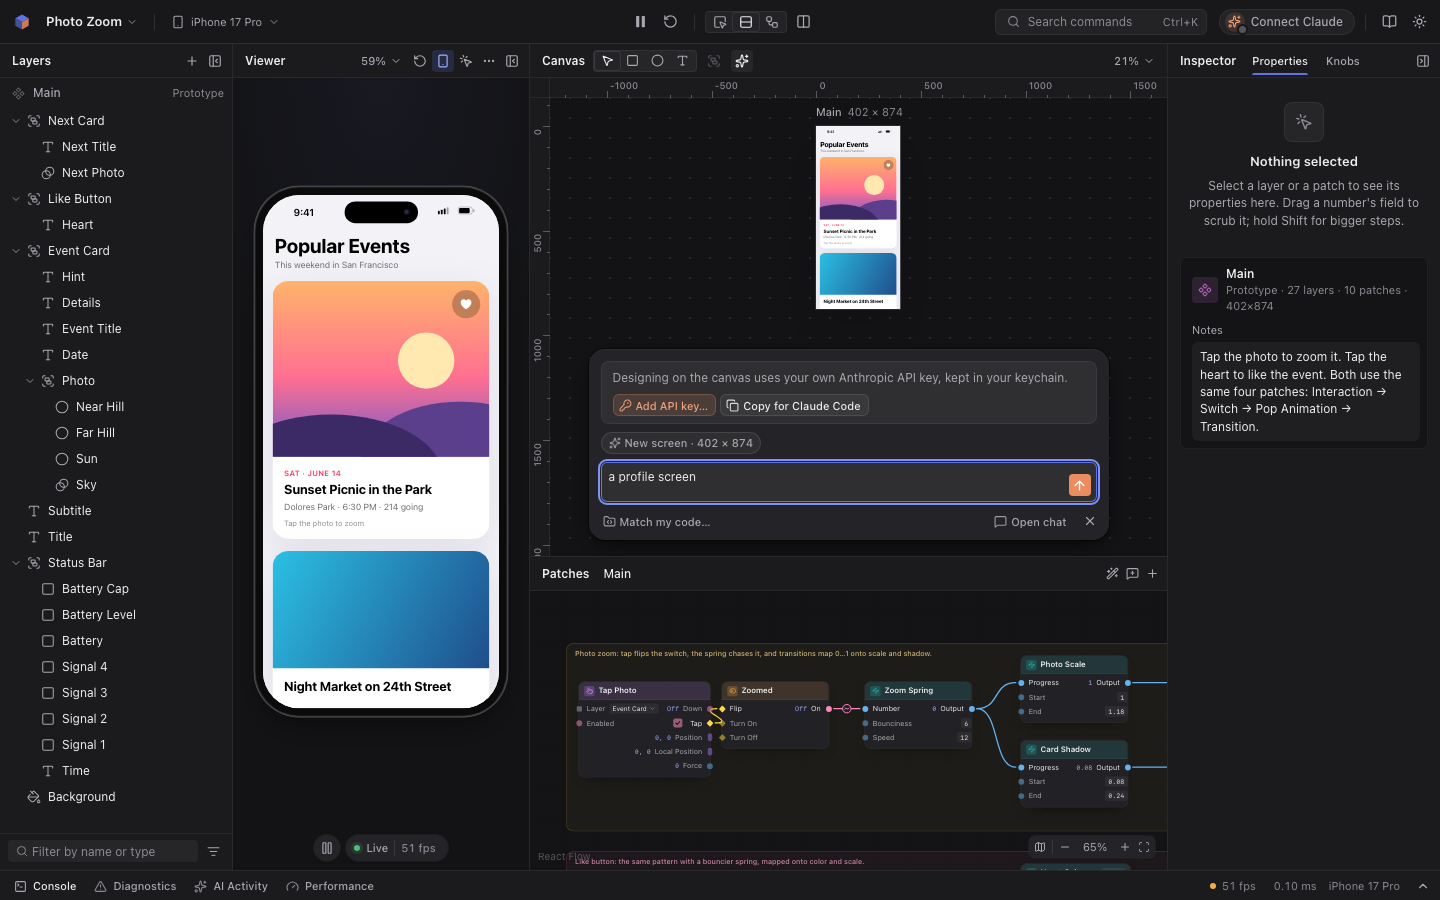
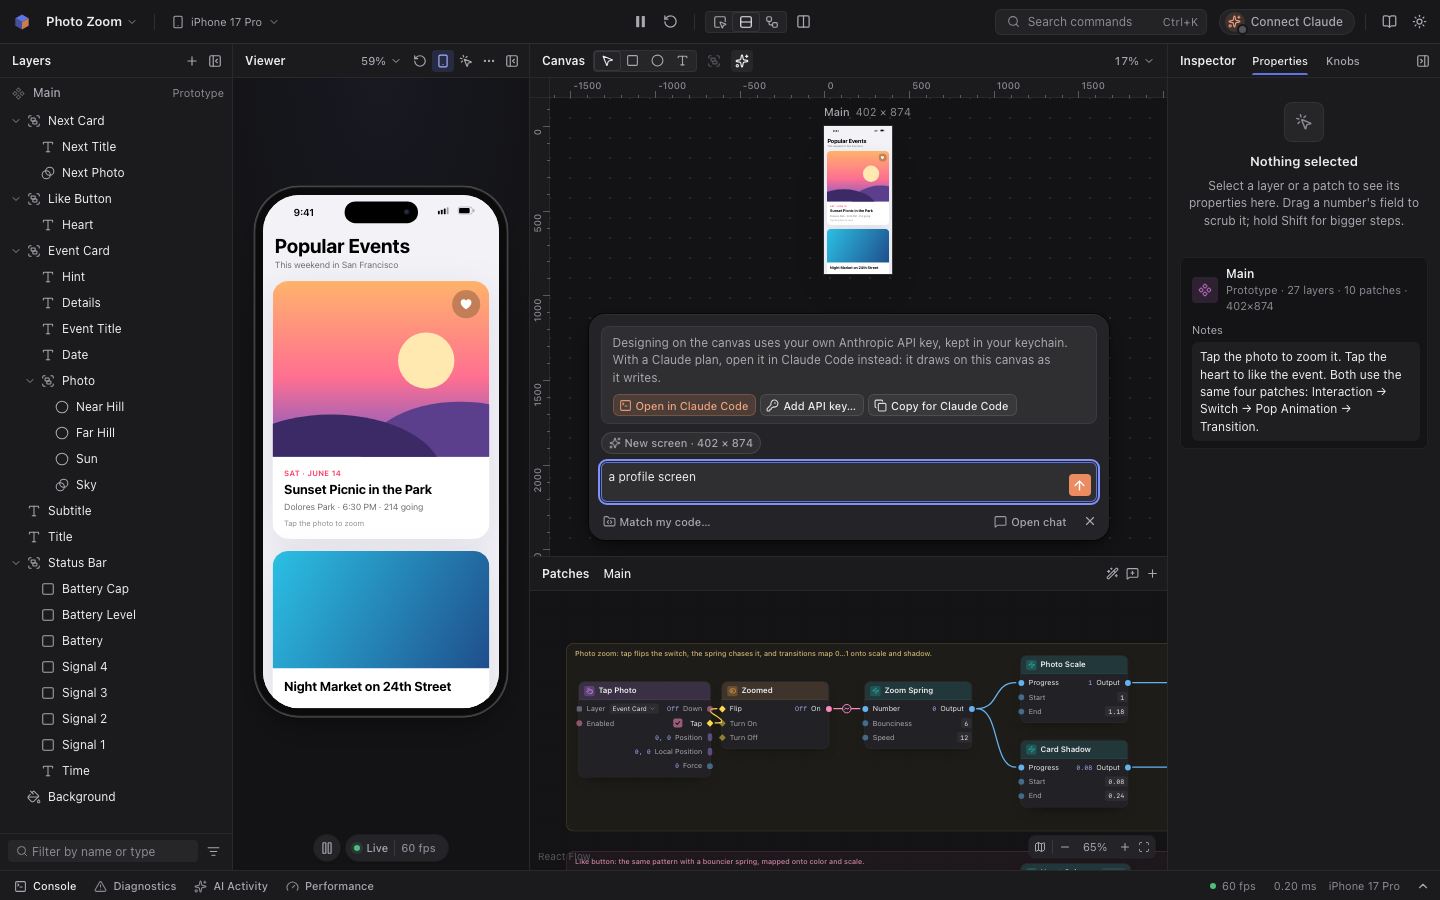
Design with Claude: integrate wave 2, and test preview_design from the MCP server to the editor's canvas
An app-host test now sends preview_design and import_design with "preview": true through the real
editor RPC handler: the draft shows on the canvas and grows, turns to adding while it's captured,
and ends as added once its layers are in. A type check holds the editor's DesignPreviewUpdate mirror
to the MCP package's. The e2e fake Assistant gains openInClaudeCode, as the desktop preload has it,
so the no-key test checks Open in Claude Code comes first and hands off the prompt that teaches
preview_design. The design-01 to 03 screenshots show the new button.

Claude-Session: https://claude.ai/code/session_012WdeSGQJKtguNSEBwTLrct

Changed region(s): [[0.4062, 0.0933, 0.7812, 0.4667], [0.625, 0.0933, 0.6562, 0.1244]]

diff --git a/apps/desktop/electron/app-host.test.ts b/apps/desktop/electron/app-host.test.ts
@@ -14,7 +14,7 @@ import type { SceneFrame, SceneNode } from "@sonobe/engine";
 import { InMemoryTransport } from "@modelcontextprotocol/server";
 import { createHttpHandler, createSimulationManager, createSonobeMcpServer, HostError, isHostError, TOOL_NAMES, type DesignPreviewUpdate, type NodeMcpHandler } from "@sonobe/mcp";
 import { createPatchRegistry } from "@sonobe/patches";
-import { afterEach, describe, expect, it, vi } from "vitest";
+import { afterEach, describe, expect, expectTypeOf, it, vi } from "vitest";
 
 // Count full diagnostics passes in this process (behavior unchanged).
 vi.mock("@sonobe/core", async (importOriginal) => {
@@ -23,6 +23,8 @@ vi.mock("@sonobe/core", async (importOriginal) => {
 });
 import { createBrowserHost, createMemoryProjectStorage, type ProjectStorage } from "../../editor/src/host/browserHost.ts";
 import { registerRpcHandlers } from "../../editor/src/host/rpcHandlers.ts";
+import type { DesignPreviewUpdate as EditorDesignPreviewUpdate } from "../../editor/src/host/types.ts";
+import { activeDraft, designStore, initialDesignData } from "../../editor/src/panels/design/designStore.ts";
 import { createManualScheduler } from "../../editor/src/runtime/scheduler.ts";
 import { createDemoDocument } from "../../editor/src/state/demoDocument.ts";
 import { createEditorSession, type EditorSession } from "../../editor/src/state/session.ts";
@@ -37,6 +39,16 @@ import { createRpcClient, createRpcFailure, createRpcServer, type RpcServer } fr
 
 const registry = createPatchRegistry();
 const CLAUDE = { kind: "agent" as const, name: "Claude" };
+
+/** A checkout screen as the capture window reads it (import_design's preview source renders the draft into it). */
+const CHECKOUT_CAPTURE = {
+  format: "sonobe.design-capture",
+  version: 1,
+  source: { kind: "html", title: "Checkout" },
+  viewport: { width: 402, height: 874 },
+  root: { kind: "frame", name: "Page", box: [0, 0, 402, 874], fill: "#FFFFFFFF", children: [{ kind: "frame", name: "Pay Button", nameRank: 5, box: [16, 780, 370, 52], fill: "#111118FF", radii: [14, 14, 14, 14], children: [] }] },
+  images: {},
+};
 
 interface TestWindow {
   session: EditorSession;
@@ -598,6 +610,44 @@ describe("app host presence, selection and screenshots", () => {
     const oldHost = appHost([old]);
     expect(await rejection(oldHost.showDesignPreview!({ ...update, docId: "photo_zoom" }))).toMatchObject({ code: "design_preview_unavailable", hint: expect.stringContaining('"preview": true') });
     await expect(oldHost.showDesignPreview!({ ...update, docId: "photo_zoom", status: "cleared", html: null })).resolves.toBeUndefined();
+  });
+
+  it("puts preview_design's draft on the editor's canvas, and import_design with preview adds it as layers", async () => {
+    // The editor's design.preview params mirror the MCP host's update field for field.
+    expectTypeOf<EditorDesignPreviewUpdate>().toEqualTypeOf<DesignPreviewUpdate>();
+    designStore.setState(initialDesignData());
+    cleanups.push(() => designStore.setState(initialDesignData()));
+    const w = editorWindow(1);
+    const captured: { html: string | undefined; status: string | undefined }[] = [];
+    const host = appHost([w], {
+      captureDesign: async (request) => {
+        // import_design says it's adding the draft while it renders it.
+        captured.push({ html: request.html, status: activeDraft(designStore.getState(), Date.now())?.status });
+        return { capture: CHECKOUT_CAPTURE as never, images: new Map() };
+      },
+    });
+    const server = createSonobeMcpServer(host, { version: "0.1.0-test" });
+    const [clientSide, serverSide] = InMemoryTransport.createLinkedPair();
+    await server.connect(serverSide);
+    const client = new Client({ name: "claude-code", version: "2.1.278" });
+    await client.connect(clientSide as never);
+    cleanups.push(() => client.close());
+    const draft = () => activeDraft(designStore.getState(), Date.now());
+
+    const head = '<!doctype html><html><head><style>body{margin:0}</style></head><body><header data-name="Header">Checkout</header>';
+    await client.callTool({ name: "preview_design", arguments: { name: "Checkout", html: head } });
+    expect(draft()).toMatchObject({ source: "mcp", key: "mcp:Claude", status: "writing", html: head, fields: { name: "Checkout" }, mcp: { author: CLAUDE, revision: 1 } });
+    const pay = '<div data-name="Pay Button">Pay</div></body></html>';
+    await client.callTool({ name: "preview_design", arguments: { append: pay } });
+    expect(draft()).toMatchObject({ status: "writing", html: head + pay, mcp: { revision: 2 } });
+
+    const result = await client.callTool({ name: "import_design", arguments: { preview: true } });
+    expect(result.isError).not.toBe(true);
+    expect(captured).toEqual([{ html: head + pay, status: "adding" }]);
+    // The import went in before the draft was cleared, so it ends as added and fades.
+    expect(designStore.getState().drafts.at(-1)).toMatchObject({ key: "mcp:Claude", status: "added", mcp: { revision: 4 } });
+    const root = w.session.document.getState().doc.project.root;
+    expect(w.session.document.getState().doc.components[root]!.layers.map((l) => l.name)).toContain("Checkout");
   });
 
   it("restarts the live prototype (restart_viewer) and says what the players show", async () => {

diff --git a/e2e/design-with-claude.spec.ts b/e2e/design-with-claude.spec.ts
@@ -9,7 +9,7 @@
 import { expect, test, type Locator, type Page } from "@playwright/test";
 import { readFileSync } from "node:fs";
 import { fileURLToPath } from "node:url";
-import { fakeAssistantSent, installFakeAssistant, releaseFakeGate } from "./fakeAssistant.ts";
+import { fakeAssistantSent, fakeHandoffs, installFakeAssistant, releaseFakeGate } from "./fakeAssistant.ts";
 import { collectConsoleProblems, hook, openEditor, screenshot } from "./helpers.ts";
 
 const profileHtml = readFileSync(fileURLToPath(new URL("../packages/import/fixtures/profile.html", import.meta.url)), "utf8");
@@ -221,10 +221,20 @@ test.describe("Design with Claude", () => {
     await designField(page).press("Enter");
     await expect(page.getByText("Designing on the canvas uses your own Anthropic API key, kept in your keychain.")).toBeVisible();
     await expect(designField(page)).toHaveValue("a profile screen");
-    await expect(page.getByRole("button", { name: "Add API key…" })).toBeVisible();
-    await expect(page.getByRole("button", { name: "Copy for Claude Code" })).toBeVisible();
+    // With a Claude plan instead of a key, Open in Claude Code comes first.
+    const notice = page.locator(".sb-design-box__notice");
+    await expect(notice).toContainText("With a Claude plan, open it in Claude Code instead: it draws on this canvas as it writes.");
+    await expect(notice.getByRole("button")).toHaveText(["Open in Claude Code", "Add API key…", "Copy for Claude Code"]);
     await expect(preview(page)).toHaveCount(0);
     await screenshot(page, "design-03-no-key");
+
+    // It hands the request to the person's own Claude Code, with the prompt that teaches the live preview.
+    await notice.getByRole("button", { name: "Open in Claude Code" }).click();
+    await expect(page.locator(".sb-toast", { hasText: "Opened Claude Code" })).toContainText("In Terminal, in “placemark”. It designs on this canvas as it writes.");
+    const handoffs = await fakeHandoffs(page);
+    expect(handoffs).toHaveLength(1);
+    expect(handoffs[0]).toContain("a profile screen");
+    expect(handoffs[0]).toContain('preview_design (component "main") with the page\'s head and first section as html, then append one part at a time, then import_design with "preview": true.');
     expect(problems).toEqual([]);
   });
 

diff --git a/e2e/fakeAssistant.ts b/e2e/fakeAssistant.ts
@@ -51,6 +51,8 @@ declare global {
     __sonobeFakeAssistant?: AssistantHostLike;
     /** Every request send() received, oldest first. */
     __fakeAssistantSent?: FakeSendRequest[];
+    /** Every prompt openInClaudeCode() received, oldest first. */
+    __fakeHandoffs?: string[];
     /** Resolves when __releaseFakeGate() is called; a reply waits on it at `hold`. */
     __fakeGate?: Promise<void>;
     __releaseFakeGate?: () => void;
@@ -60,6 +62,11 @@ declare global {
 /** Define window.__sonobeFakeAssistant before the app loads (per page; call before openEditor). */
 export async function installFakeAssistant(page: Page, options: FakeAssistantOptions): Promise<void> {
   await page.addInitScript(fakeAssistant, { ...options, draftEvents: DRAFT_EVENTS, codeFolder: FAKE_CODE_FOLDER });
+}
+
+/** The prompts Open in Claude Code handed off so far. */
+export function fakeHandoffs(page: Page): Promise<string[]> {
+  return page.evaluate(() => window.__fakeHandoffs ?? []);
 }
 
 /** Let a held reply go on (it imports the page and finishes). */
@@ -90,6 +97,8 @@ function fakeAssistant(options: FakeAssistantOptions & { draftEvents: number; co
   };
   const sent: FakeSendRequest[] = [];
   window.__fakeAssistantSent = sent;
+  const handoffs: string[] = [];
+  window.__fakeHandoffs = handoffs;
   let openGate: () => void = () => undefined;
   window.__fakeGate = new Promise<void>((resolve) => {
     openGate = resolve;
@@ -269,6 +278,12 @@ function fakeAssistant(options: FakeAssistantOptions & { draftEvents: number; co
       unlinkCodeFolder: async () => {
         codeFolder = { linked: null, missing: false };
         return copy(codeFolder);
+      },
+      // The desktop opens a one-time script in Terminal, in the linked folder (linking one first); this records the prompt.
+      openInClaudeCode: async (request) => {
+        handoffs.push(request.prompt);
+        if (!codeFolder.linked) codeFolder = { linked: { ...options.codeFolder }, missing: false };
+        return { ok: true, folder: options.codeFolder.path };
       },
     },
     secrets: {
